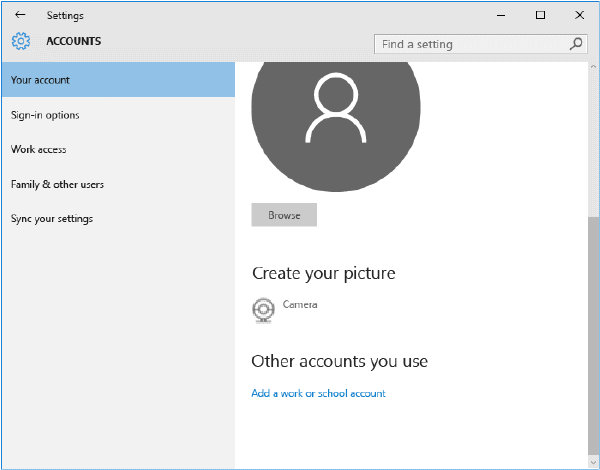
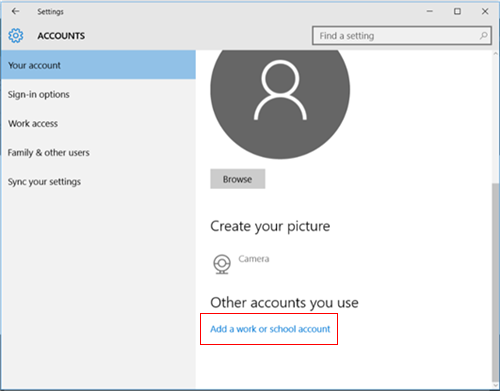
added Windows 10 RS1 steps

diff --git a/InTuneDocs/EndUser/enroll-your-w10-phone-or-w10-pc-windows.md b/InTuneDocs/EndUser/enroll-your-w10-phone-or-w10-pc-windows.md
@@ -35,25 +35,64 @@ To enroll your Windows 10 Mobile or Windows 10 desktop device:
 
 1.  Go to Windows  **Settings** and tap **Accounts**.
 
-    ![settings-accounts](./media/W10-enroll-1-settings-accounts.png)
+    ![settings-accounts](./media/w10-enroll-rs1-settings-accounts.png)
+
+2.  Look at the next two screens, and find the one that looks like what you see on your device. Follow the steps that go with the screen you see on your device.
+
+	If you see this screen, follow the steps in [Steps to follow if you see Access work or school](#steps-to-follow-if-you-see-access-work-or-school).
+
+    ![connect-to-work-or-school](./media/w10-enroll-rs1-connect-to-work-or-school.png)
+
+	If you see this screen, follow the steps in [Steps to follow if you see Your account](#steps-to-follow-if-you-see-access-your-account).
+
+	![your-account](./media/w10-enroll-2-accounts-your-account.png)
+
+## Steps to follow if you see Access work or school
+
+1.  Tap **Access work or school**.
+
+    ![tap-access-work-school-account](./media/w10-enroll-rs1-connect-to-work-or-school.png)
+
+2.  Enter your work or school email, and tap **Next**.
+
+    ![enter-your-work-or-school-account](./media/w10-enroll-rs1-set-up-work-or-school-account.png)
+
+3. Sign in to Intune using your work or school account.
+
+	![add-work-school-account](./media/w10-enroll-rs1-enter-your-credentials.png)
+
+	You’ll see a message indicating that your company or school is registering your device.
+
+4. When you see the **You’re all set!** page, tap **Close**. You’re done.
+
+  ![tap-close-on-you-are-all-set-screen](./media/w10-enroll-rs1-youre-all-set.png)
+
+5. If you want to double-check that your connection looks right, go back to **Settings**, and you can now see that your work or school account is listed.
+
+	![validate-that-connection-was-set-up-correctly](./media/w10-enroll-rs1-validate-successful-enrollment.png)
+
+If you followed the steps above, but you still can’t access your work or school email and files, follow the steps in [Troubleshooting steps to follow if you see Access work or school](troubleshoot-your-windows-10-device-windows.md#troubleshooting-steps-to-follow-if-you-see-access-work-or-school).
+
+
+## Steps to follow if you see Your account
+
+1.  Go to Windows  **Settings** and tap **Accounts**.
+
+    ![go-to-settings-accounts](./media/W10-enroll-1-settings-accounts.png)
 
 2.  Tap **Your account**.
 
-    ![your-account](./media/W10-enroll-2-accounts-your-account.png)
+    ![tap-your-account](./media/W10-enroll-2-accounts-your-account.png)
 
 3.  Tap **Add a work or school account**.
 
-    ![add-work-school-account](./media/W10-enroll-3-add-work-school-acct.png)
+	![add-work-or-school-account](./media/w10-enroll-3-add-work-school-acct.png)
 
 4.  Sign in with your work or school credentials.
 
-    ![sign-in](./media/W10-enroll-4-sign-in.png)
+	![sign-in](./media/W10-enroll-4-sign-in.png)
 
-If you followed the steps above, but still can't access your work or school email, files, and other data, go back to **Accounts** and tap **Work access**.
-
--   If you see your work or school account, congratulations. You’re connected.
-
--   If you don’t see your work or school account, tap **Connect**, and then sign in with your work or school credentials.
+If you followed the steps above, but still can't access your work or school email, files, and other data, try the troubleshooting steps in [Troubleshooting steps to follow if you see Your account](troubleshoot-your-windows-10-device-windows.md#troubleshooting-steps-to-follow-if-you-see-your-account).
 
 We also recommend that you install the Company Portal app, which lets you easily identify and get the company apps that are relevant to you and your role. Depending on how your company  configured Intune, the Company Portal app may have been installed as part of your enrollment process. To check if you have the app, look for **Company Portal** in your apps list. If you don't see the Company Portal in your list of apps, follow these steps to install it.
 
@@ -68,5 +107,4 @@ We also recommend that you install the Company Portal app, which lets you easily
 Still need help? Contact your IT administrator. For their contact information, check the [Company Portal website](http://portal.manage.microsoft.com).
 
 ### See also
-[Enroll your Windows device in Intune](enroll-your-device-in-intune-windows.md)</br>
 [Using your Windows device with Intune](using-your-windows-device-with-intune.md)

diff --git a/InTuneDocs/EndUser/troubleshoot-your-windows-10-device-windows.md b/InTuneDocs/EndUser/troubleshoot-your-windows-10-device-windows.md
@@ -1,0 +1,61 @@
+---
+# required metadata
+
+title: Troubleshoot your Windows 10 device enrollment | Microsoft Intune
+description:
+keywords:
+author: Staciebarker
+manager: angrobe
+ms.date: 8/18/2016
+ms.topic: article
+ms.prod:
+ms.service: microsoft-intune
+ms.technology:
+ms.assetid: 4ab630b6-47ff-443b-a2a5-be23388bcea7
+
+# optional metadata
+
+ROBOTS: noindex,nofollow
+#audience:
+#ms.devlang:
+ms.reviewer: priyar
+ms.suite: ems
+#ms.tgt_pltfrm:
+#ms.custom:
+
+---
+
+# Troubleshoot your Windows 10 device enrollment
+If you followed the steps in [Enroll your Windows 10 Mobile or Windows 10 desktop device in Intune](enroll-your-w10-phone-or-w10-pc-windows.md), but you still can’t access your work or school email and files, try these troubleshooting steps.
+
+1.  Look at the next two screens, and find the one that looks like what you see on your device. Follow the steps that go with the screen you see on your device.
+
+	If you see this screen, follow the steps in [Troubleshooting steps to follow if you see Access work or school](#troubleshooting-steps-to-follow-if-you-see-access-work-or-school).
+
+    ![settings-accounts-access-work-or-school](./media/w10-enroll-rs1-connect-to-work-or-school.png)
+
+	If you see this screen, follow the steps in [Troubleshooting steps to follow if you see Access work or school](#troubleshooting-steps-to-follow-if-you-see-your-account).
+
+	![settings-accounts-your-account](./media/W10-enroll-2-accounts-your-account.png)
+
+## Troubleshooting steps to follow if you see Access work or school
+
+1.  If you followed the steps above, but you still can’t access your work or school email and files, go back to **Access work or school**.
+
+2. Do one of the following:
+
+	- If you see a connection that looks similar to the image below, tap it, and then check that you see the Manage, Info and Disconnect options. If you see these option, you’re now enrolled and connected.
+
+	![validate-successful-enrollment](./media/w10-enroll-rs1-validate-successful-enrollment.png)
+
+	- If you don’t see the connection information shown above, or you do see it, but it’s missing some of the options, tap **Connect**, and then sign in with your work or school credentials. You should now be connected.
+
+## Troubleshooting steps to follow if you see Your account
+
+If you followed the steps above, but still can't access your work or school email, files, and other data, go back to **Accounts**, and tap **Work access**.
+
+- If you see your work or school account, congratulations. You’re connected.
+
+- If you don’t see your work or school account, tap **Connect**, and then sign in with your work or school credentials.
+
+Still need help? Contact your IT administrator. For their contact information, check the [Company Portal website](http://portal.manage.microsoft.com).
